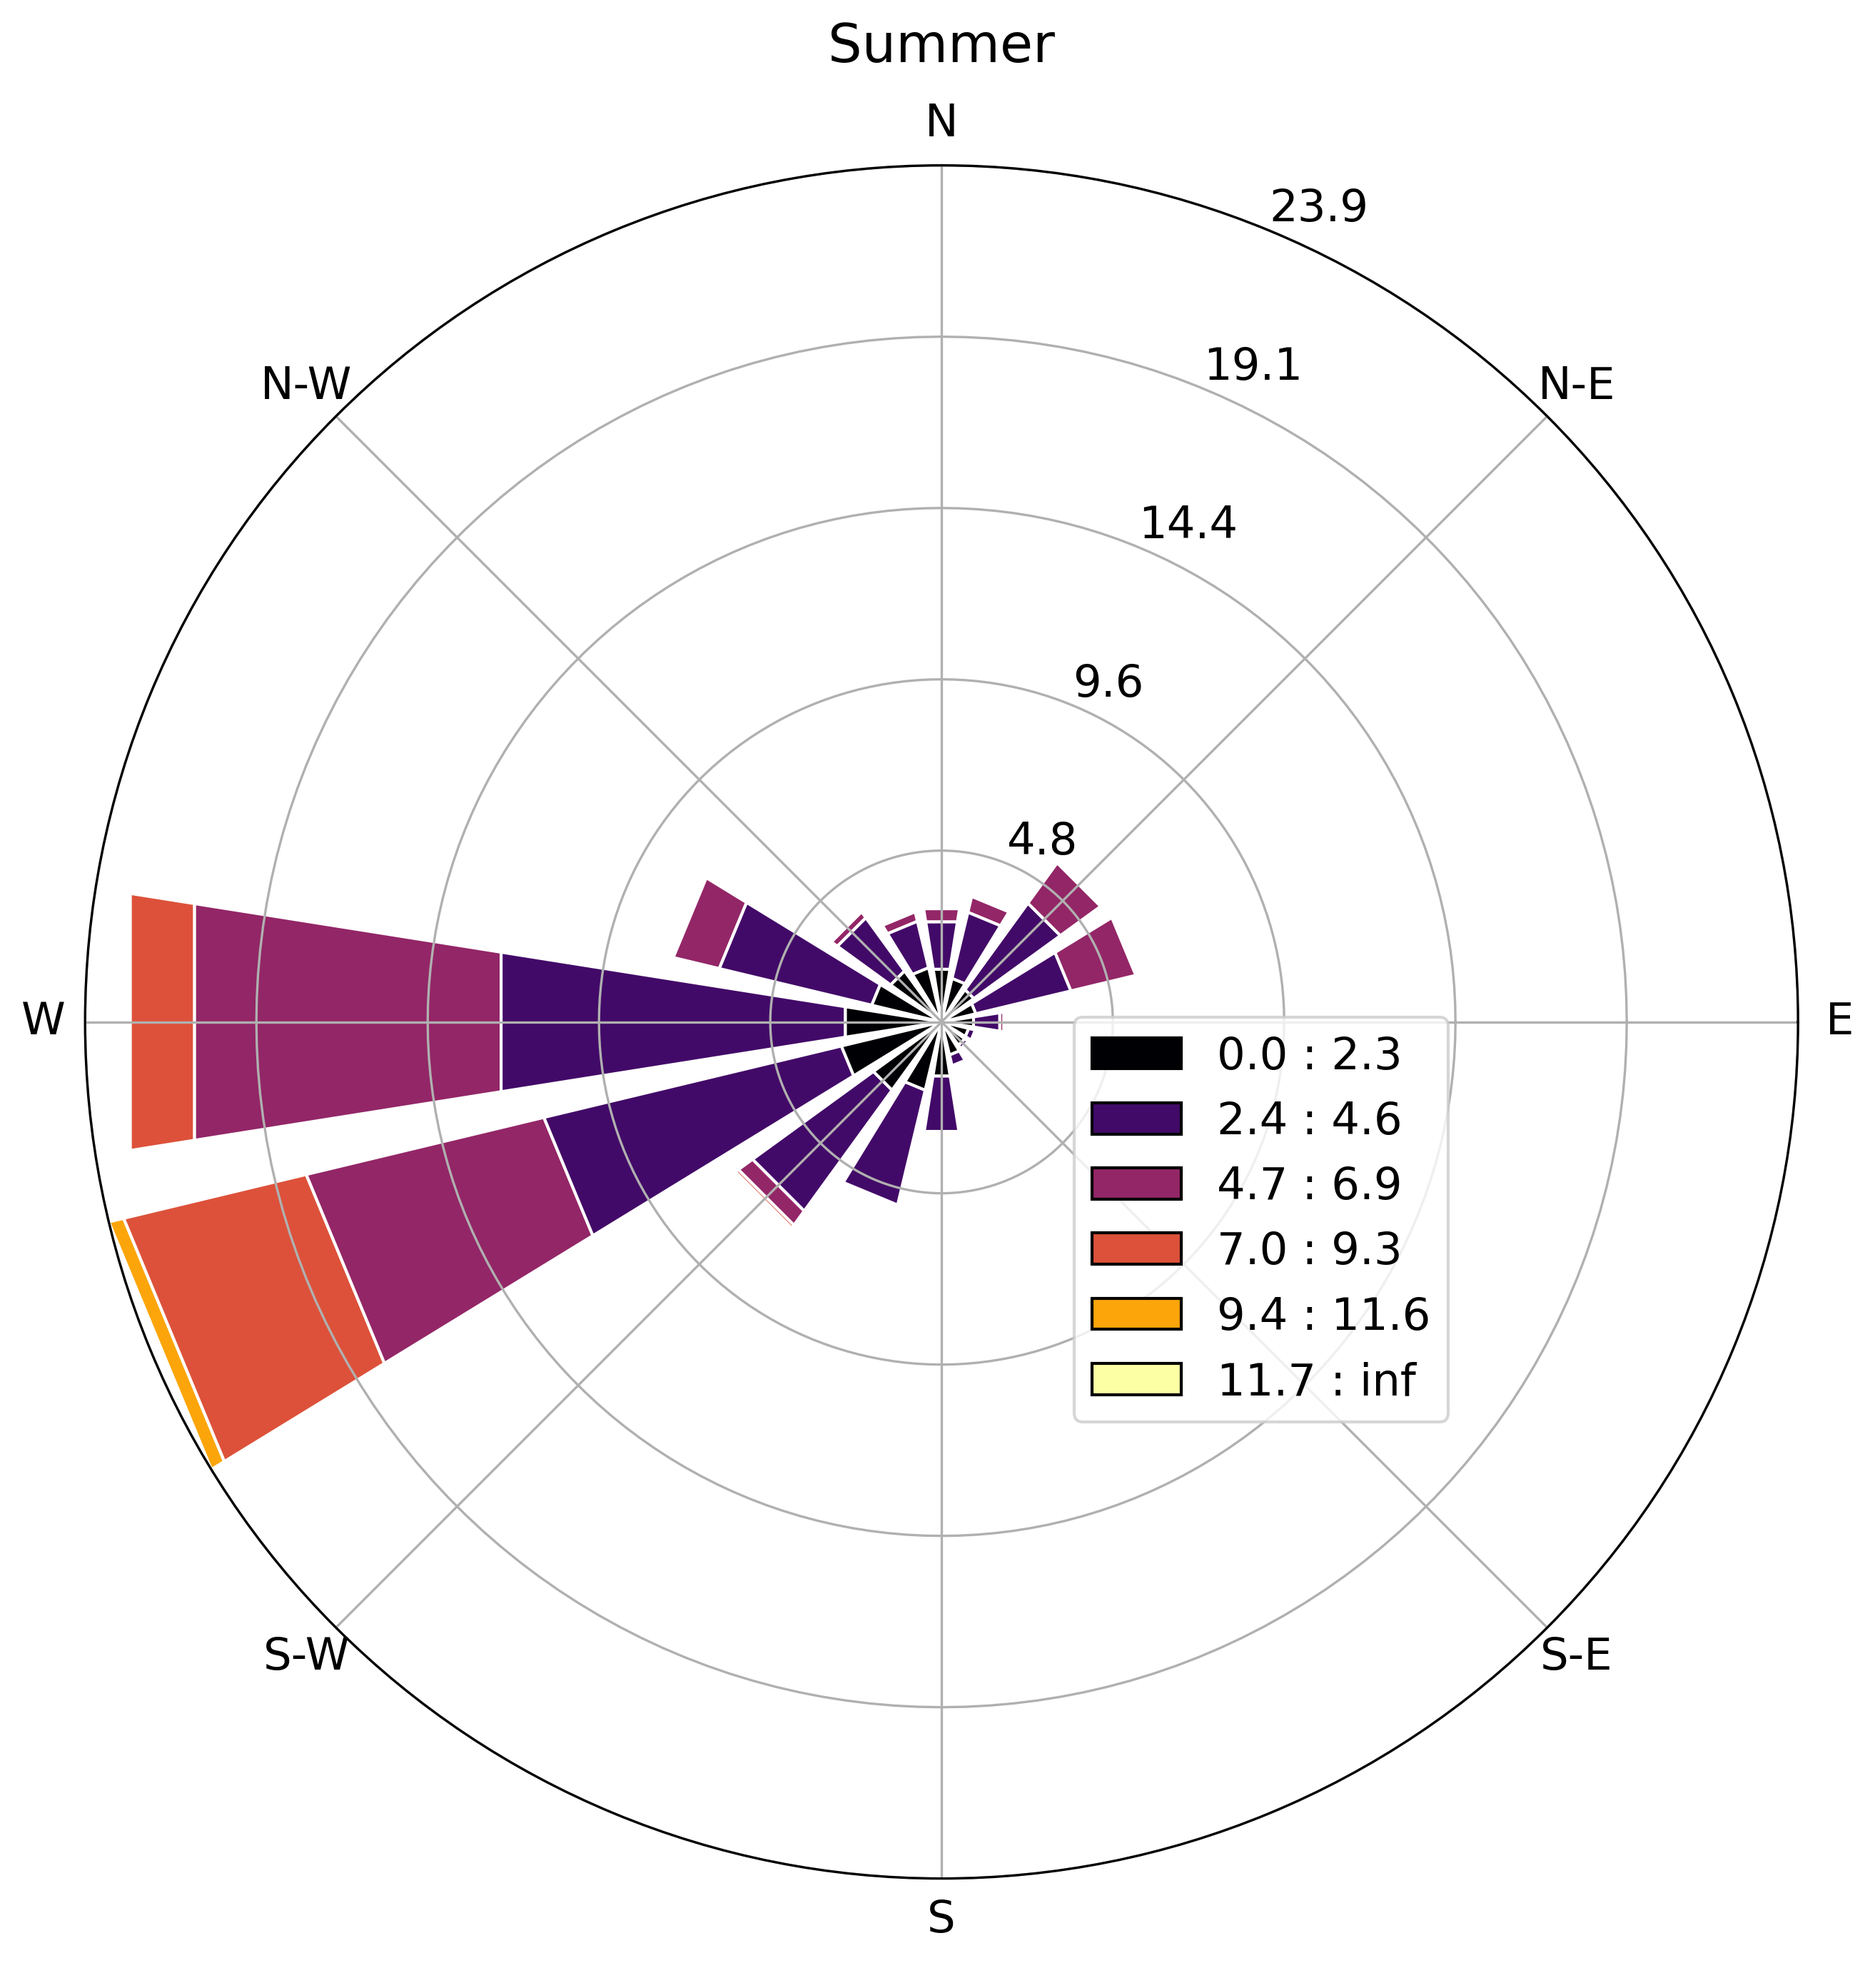
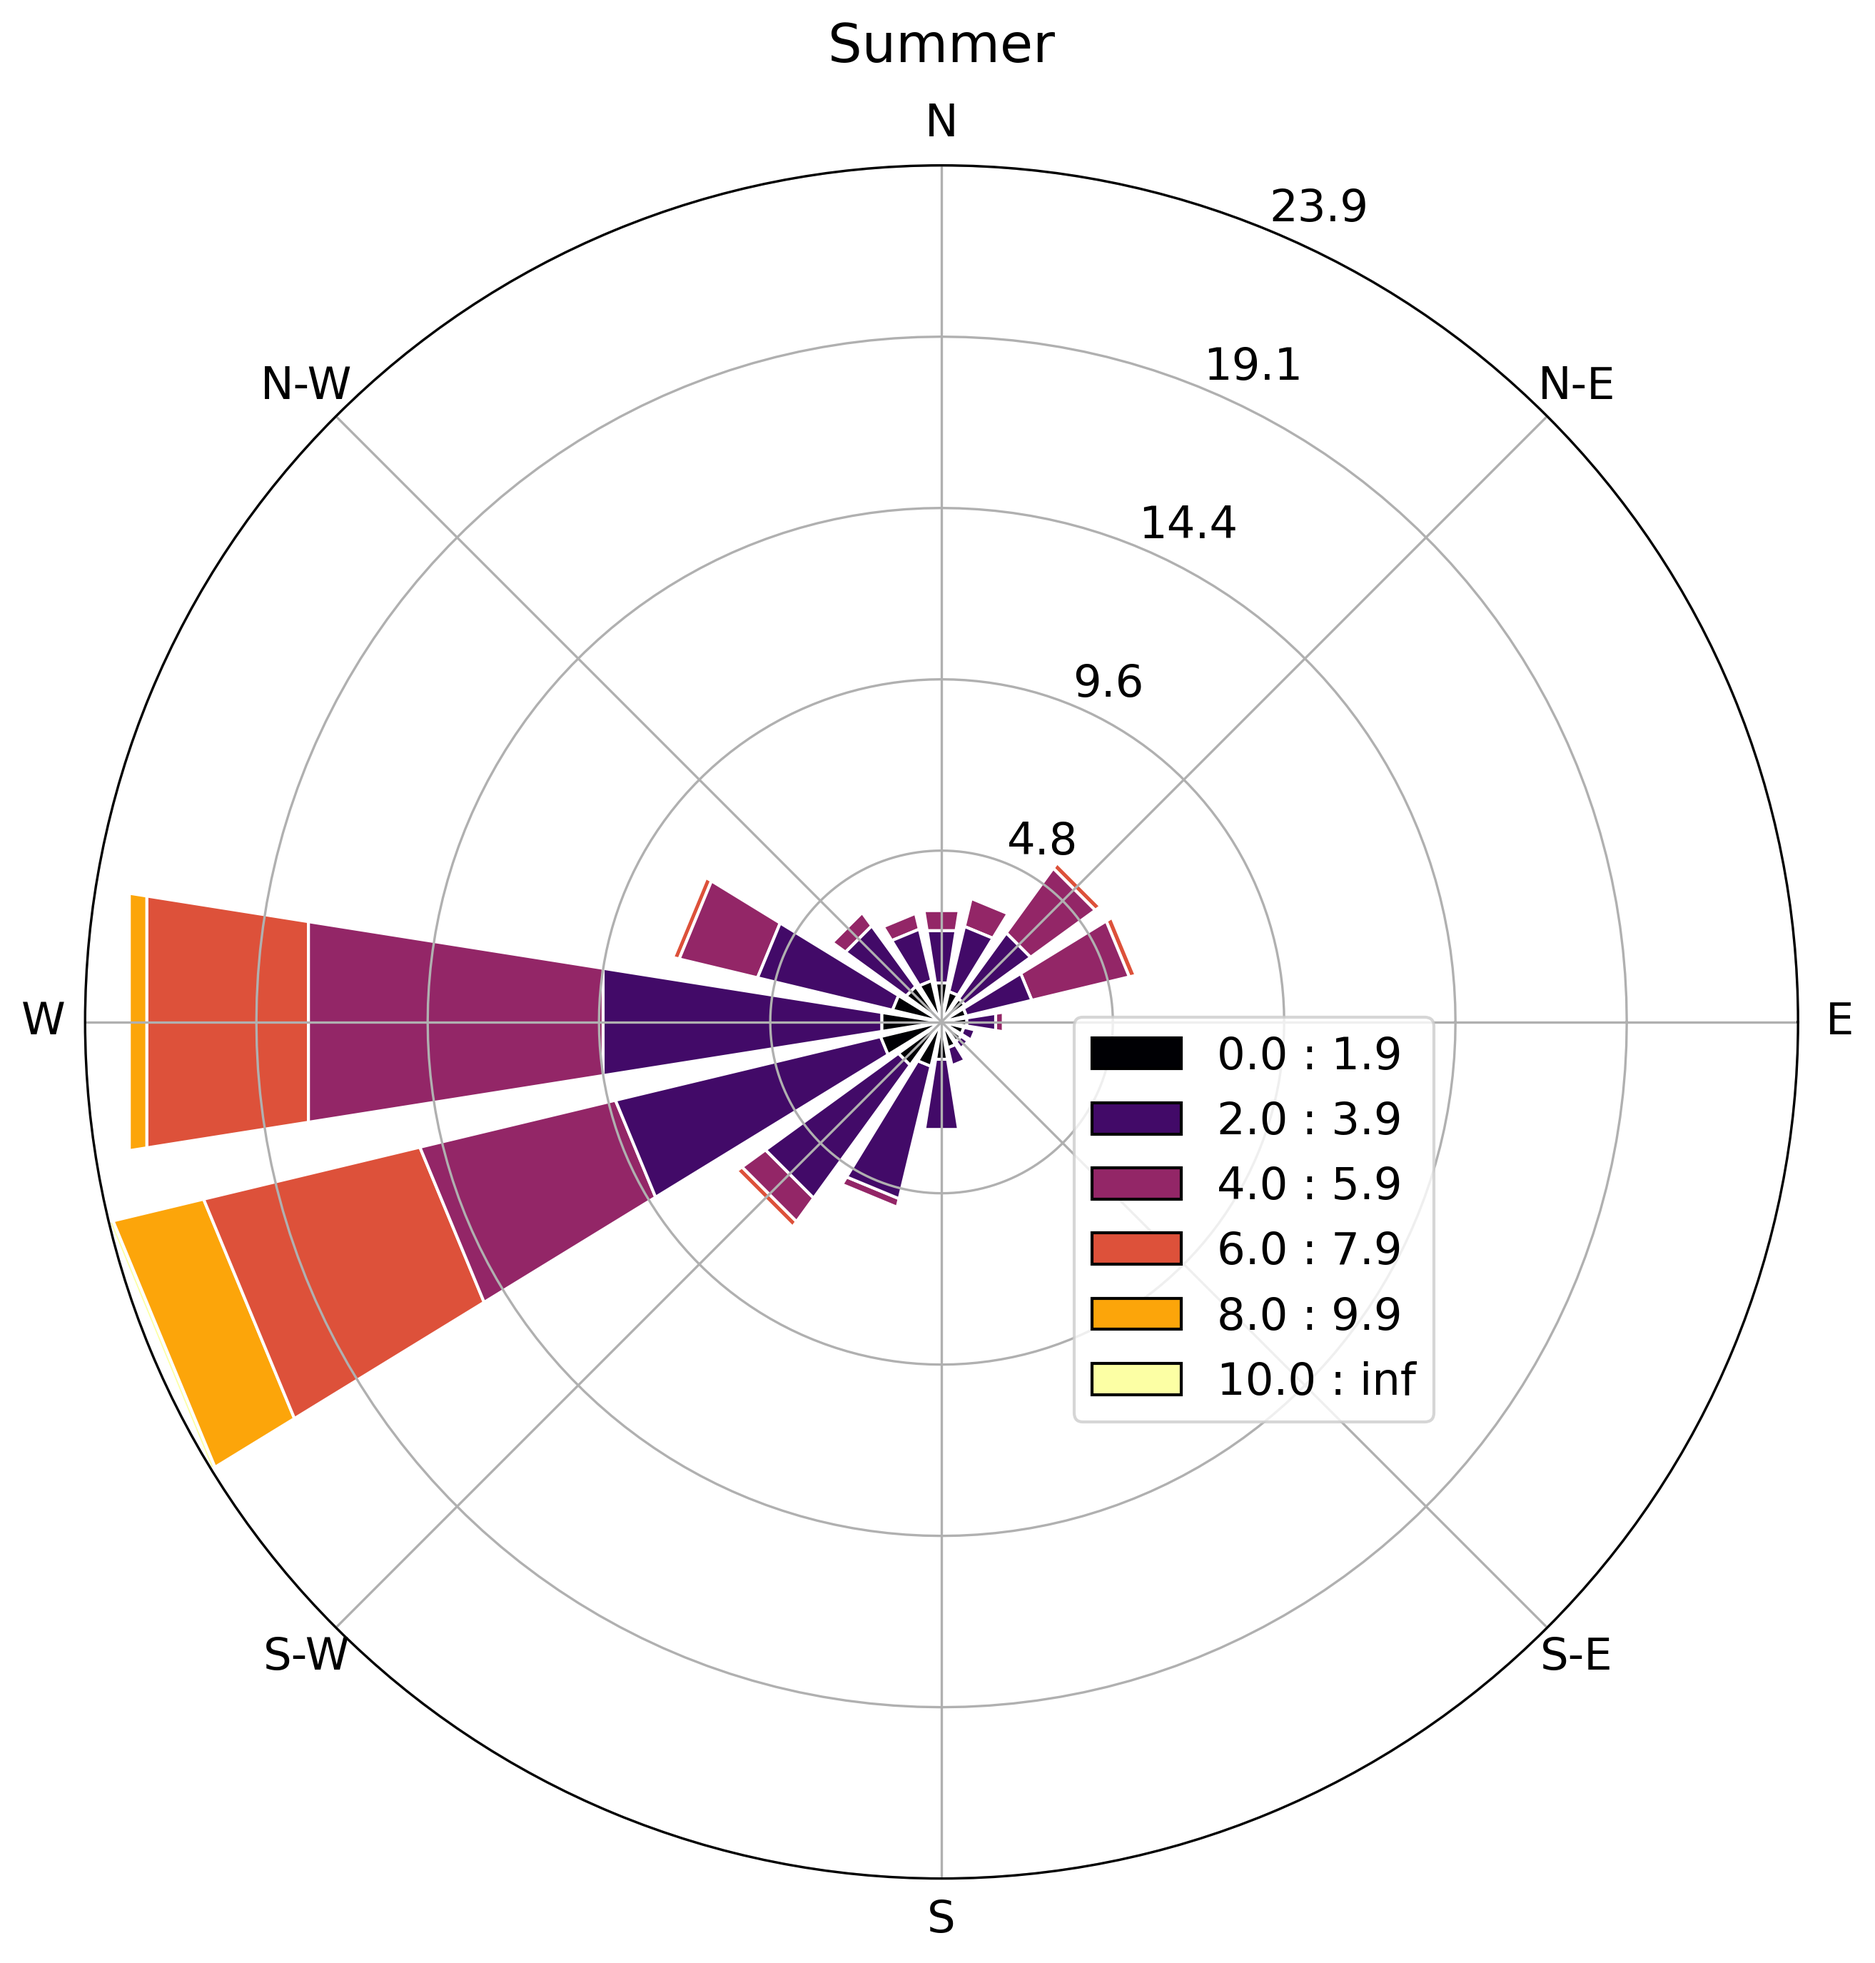
ws bin update

diff --git a/wind_rose.py b/wind_rose.py
@@ -4,6 +4,7 @@ from windrose import WindroseAxes
 from matplotlib import pyplot as plt
 import matplotlib.cm as cm
 import matplotlib as mpl
+import numpy as np
 
 mpl.rcParams.update({'font.size': 15})
 
@@ -29,7 +30,7 @@ print('end')
 """
 # Summer
 ax = WindroseAxes.from_ax(figsize=(10, 10))
-ax.bar(JJA_df.WD, JJA_df.WS, normed=True, opening=0.8, edgecolor='white', cmap=cm.inferno)
+ax.bar(JJA_df.WD, JJA_df.WS, normed=True, opening=0.8, edgecolor='white', cmap=cm.inferno, bins=np.arange(0, 12, 2))
 ax.set_legend(loc='upper left', bbox_to_anchor=(0.58, 0.5))
 plt.title('Summer')
 plt.savefig(current_dir + 'summer_wind.png', bbox_inches='tight', dpi=300)
@@ -38,7 +39,7 @@ plt.savefig(current_dir + 'summer_wind.png', bbox_inches='tight', dpi=300)
 """
 # Winter
 ax = WindroseAxes.from_ax(figsize=(10, 10))
-ax.bar(DJF_df.WD, DJF_df.WS, normed=True, opening=0.8, edgecolor='white', cmap=cm.inferno)
+ax.bar(DJF_df.WD, DJF_df.WS, normed=True, opening=0.8, edgecolor='white', cmap=cm.inferno, bins=np.arange(0, 12, 2))
 ax.set_legend(loc='upper left', bbox_to_anchor=(0.18, 0.5))
 plt.title('Winter')
 plt.savefig(current_dir + 'winter_wind.png', bbox_inches='tight', dpi=300)
